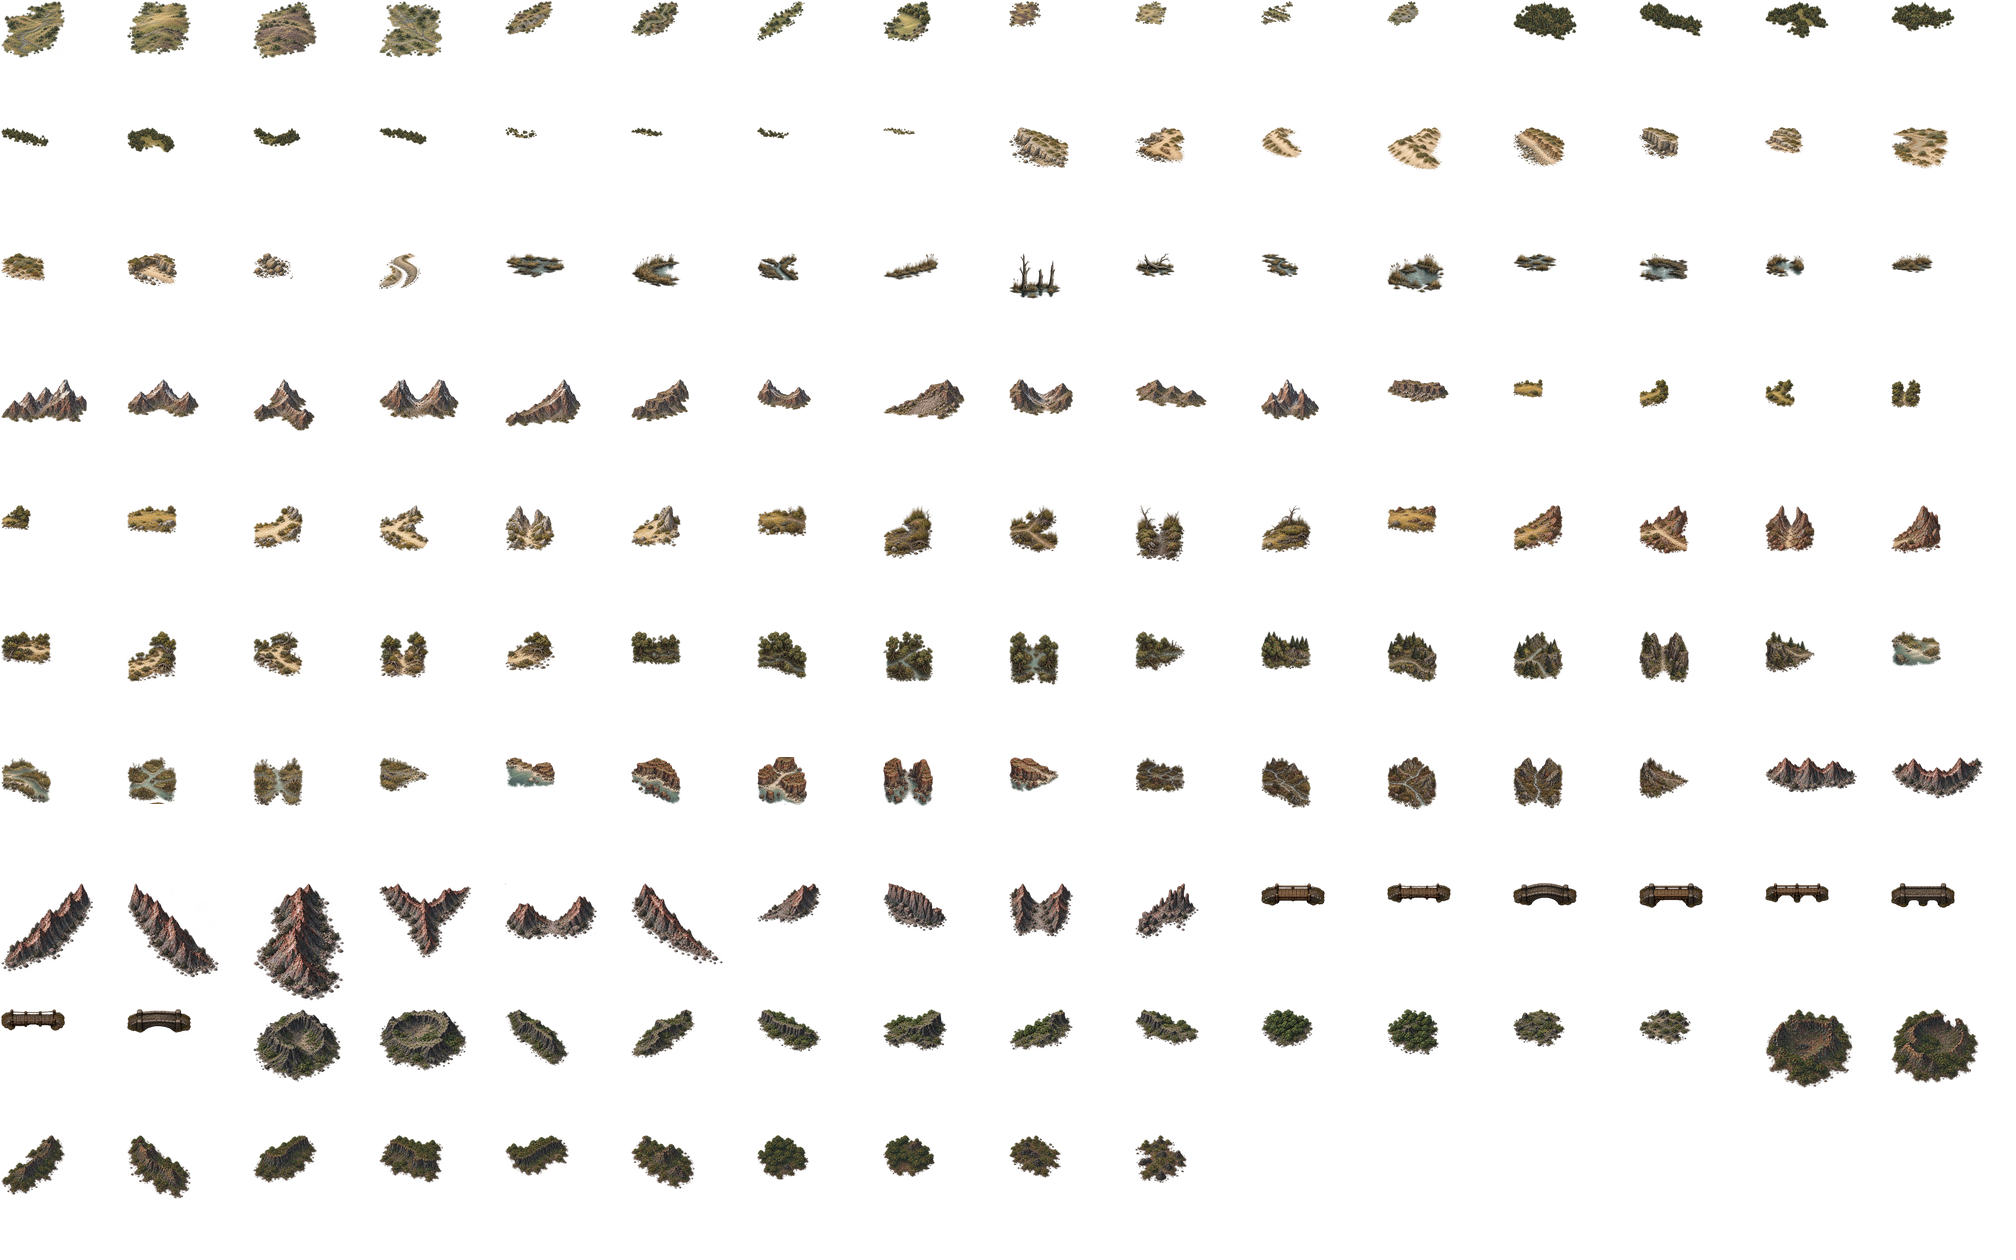
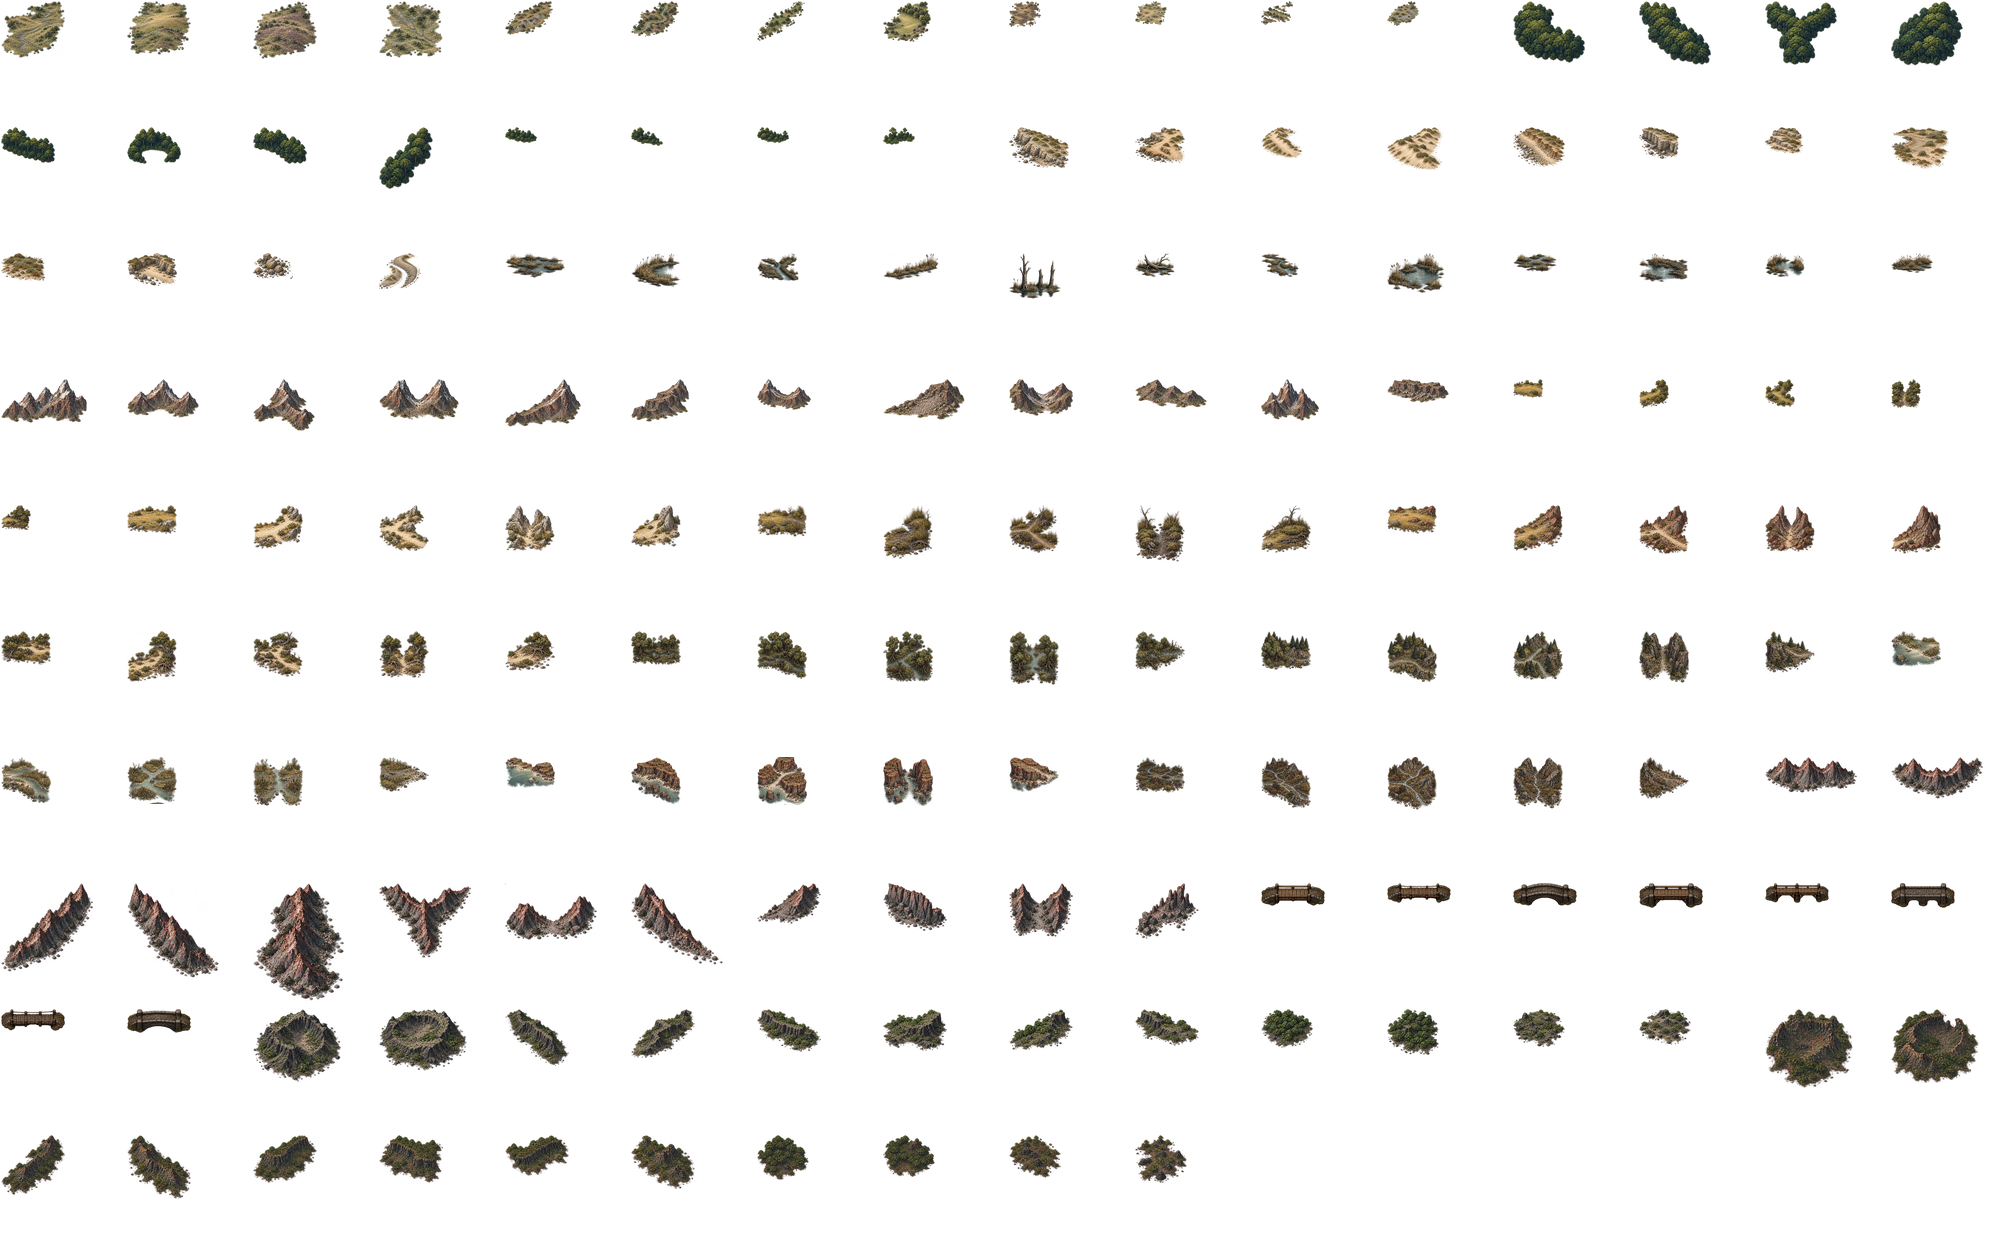
Generate and integrate raised ancient forest canopy

diff --git a/images/dark-fantasy/map-generation-prototype/terrain-composition.js b/images/dark-fantasy/map-generation-prototype/terrain-composition.js
@@ -87,7 +87,7 @@ export function composeTerrainLandscape({ map, art, pixel, world, legal, detail,
       const join = previous ? illustrationOverlap(prop, previous, art) : 0;
       if (previous && (join < (context.startsWith('ridge') ? .12 : .06) || join > .46)) continue;
       const score = rand(salt + attempt * 31 + 4) * .3
-        + (previous ? 1 - Math.abs(join - .22) * 3 : Math.min(.3, overlap)) - Math.max(0, overlap - .38);
+        + (previous ? 1 - Math.abs(join - .22) * 3 : Math.min(canopyCore ? .5 : .3, overlap)) - Math.max(0, overlap - (canopyCore ? .6 : .38));
       options.push({ prop, score, join });
     }
     options.sort((a, b) => b.score - a.score);
@@ -307,10 +307,10 @@ export function composeTerrainLandscape({ map, art, pixel, world, legal, detail,
       candidates.push({ x, y, density, salt });
     }
     candidates.sort((a, b) => b.density - a.density);
-    let placed = 0, limit = Math.ceil(area / ((region.biome === 'islands' ? (islandStyle === 'caldera' ? 600 : 1000) : region.biome === 'swamp' ? 1100 : dense ? 110 : region.biome === 'plains' ? 320 : 560) * detail * detail));
+    let placed = 0, limit = Math.ceil(area / ((region.biome === 'islands' ? (islandStyle === 'caldera' ? 600 : 1000) : region.biome === 'swamp' ? 1100 : dense ? 80 : region.biome === 'plains' ? 320 : 560) * detail * detail));
     for (const candidate of candidates) {
       if (placed >= limit || props.length >= 600) break;
-      const canopyCore=dense && candidate.density>=.52;
+      const canopyCore=dense && candidate.density>=.46;
       const prop = choose({ ...candidate, family, canopyCore,
         indices: dense ? (canopyCore ? [0,1,3] : [4,5,8,9,10,11]) : region.biome === 'islands' ? [8,9,10,11] : region.biome === 'mountains' ? [7, 8, 9, 11] : INTERIORS[region.biome], allowedBiomes: [region.biome], context: 'interior' });
       if (!prop) continue;

diff --git a/images/dark-fantasy/map-generation-prototype/composable-art.js b/images/dark-fantasy/map-generation-prototype/composable-art.js
@@ -14,7 +14,8 @@ export function gradeTerrainColour(r, g, b, family) {
     return channels.reduce((rgb,v,i) => rgb | Math.max(0,Math.min(255,Math.round(v))) << (16-i*8),0);
   }
   if (family === 'forest') {
-    return [r,g,b].reduce((rgb,v,i) => rgb | Math.round(104+(v-104)*.83) << (16-i*8),0);
+    // Deep canopy shadows carry height; lifting them made woodland look flat.
+    return [r,g,b].reduce((rgb,v,i) => rgb | Math.round(72+(v-72)*.95) << (16-i*8),0);
   }
   if (family === 'island-basalt') {
     // Compress values around weathered mid-grey without flattening leaf/stone hue.
@@ -54,7 +55,7 @@ export async function loadComposableArt(banks) {
       let row = ''; const alpha = [];
       for (let x = 0; x < canvas.width; x++) {
         const i = (y * canvas.width + x) * 4;
-        if (data[i + 3] < 65 || (data[i + 2] > data[i] + 8 && data[i + 1] > data[i] + 3)) { row += '.'; alpha.push(0); continue; }
+        if (data[i + 3] < 65 || (frame.family !== 'forest' && data[i + 2] > data[i] + 8 && data[i + 1] > data[i] + 3)) { row += '.'; alpha.push(0); continue; }
         const r = data[i] >> 3, g = data[i + 1] >> 3, b = data[i + 2] >> 3;
         const code = String.fromCharCode(256 + (r << 10) + (g << 5) + b);
         const rgb = gradeTerrainColour(r * 8 + 4, g * 8 + 4, b * 8 + 4, frame.family);

diff --git a/scripts/import-map-terrain.py b/scripts/import-map-terrain.py
@@ -185,10 +185,8 @@ def import_relief():
     for name, columns, rows in sheets:
         source_path = MASTER / f'composable-{name}-v2.png' if name in ['mountains', 'swamp', 'plains', 'forest'] else MASTER / f'composable-{name}-v1.png' if name in ['ridge-border', 'bridge', 'island-basalt', 'island-caldera'] else BASE / f'composable-{name}-v1.png'
         if name in ['plains', 'forest']: source_path = MASTER / f'composable-{name}-v3.png'
+        if name == 'forest': source_path = MASTER / 'composable-forest-v4.png'
         source = Image.open(source_path).convert('RGBA')
-        # The v3 forest master has an empty header above its three sprite rows.
-        # Trim that sheet margin during packing; preserve every painted pixel.
-        if name == 'forest': source = source.crop((0, round(source.height * .24), source.width, source.height))
         payload = json.dumps([source.width, source.height, columns, rows]).encode() + b'\n' + source.tobytes()
         probe = subprocess.run(['node', str(ROOT / 'scripts/map-terrain-frame-probe.mjs')], input=payload, capture_output=True, check=True)
         cells = json.loads(probe.stdout)
@@ -209,6 +207,7 @@ def import_relief():
             if name == 'ridge-border': width = 92 if n < 8 else 64
             if name == 'bridge': width = 64
             if name in ['plains', 'forest']: width = 64 if n < 4 else 48 if n < 8 else 32
+            if name == 'forest': width = 72 if n < 4 else 54 if n < 8 else 32
             if contact and pair == 0: width = 30
             if name.startswith('island-'): width = 88 if n < 2 else 64 if n < 8 else 52
             height = min(118, max(1, round(width * cropped.height / cropped.width)))

diff --git a/scripts/check-map-terrain.py b/scripts/check-map-terrain.py
@@ -53,7 +53,8 @@ assert all(r['rect'][2] <= 118 and r['rect'][3] <= 118 for r in relief['frames']
 for frame in relief['frames']:
     if frame['family'] in ['plains','forest']:
         n=int(frame['kind'].split('-')[-1])
-        assert frame['rect'][2] == (64 if n<4 else 48 if n<8 else 32), 'Plains/forest must use distant-scale imported pieces'
+        sizes = [72,54,32] if frame['family']=='forest' else [64,48,32]
+        assert frame['rect'][2] == sizes[0 if n<4 else 1 if n<8 else 2], 'Plains/forest must use distant-scale imported pieces'
 settlements = json.loads((folder / 'settlement-buildings-v1.json').read_text())['frames']
 assert len(settlements) == 30 and all(not f['cutRuns'] for f in settlements)
 for biome in biomes:

diff --git a/images/dark-fantasy/map-generation-prototype/README.md b/images/dark-fantasy/map-generation-prototype/README.md
@@ -25,6 +25,17 @@ untouched. This is an integration pass for the prototype, not new gameplay.
 
 ### Plains and forest terrain pass
 
+Forest v4 replaces all twelve forest pieces with raised ancient canopy masses,
+layered crowns and shaded near edges. The fine tree scale remains regional;
+height comes from the painted canopy profile, not enlarged individual trees.
+Core pieces import at 72px, connectors at 54px and low fringes at 32px.
+Forest grading preserves deep blue-green shadows and uses source alpha rather
+than the legacy cyan key. Dense patches accept more overlapping closed canopy;
+clearings retain the lower fringe pieces and protected settlement approaches.
+The same kit supplies coasts, boundary verges and settlement surroundings.
+Source: `assets/masters/composable-forest-v4.png`; exact built-in imagegen prompt:
+[forest-prompts-v4.json](assets/masters/forest-prompts-v4.json).
+
 Plains sprites receive material-aware warm ochre grading, with olive vegetation
 kept distinct from soil and stone; no zone overlay or ground-frequency change.
 All seven biome pairings involving plains or forest use current biome-specific
@@ -44,9 +55,10 @@ deadwood and fern clearings. Coasts select low banks and fringes. Neither biome
 scatters the entire asset set indiscriminately. The generated source colours get
 moderate value compression; plains stone highlights are softened further.
 
-The v3 generated masters depict distant terrain directly: broad shallow plains
-folds with fine scrub and drainage, and continuous forests of many tiny crowns.
-Runtime widths are 64px (major masses), 48px (banks/edges) and 32px (small cover).
+The generated masters depict distant terrain directly: v3 broad shallow plains
+folds with fine scrub and drainage, and v4 forests with layered raised crowns.
+Plains widths are 64px (major masses), 48px (banks/edges) and 32px (small cover);
+forest widths are 72/54/32px.
 The new source detail carries the scale, rather than shrinking close-up paintings.
 Ground and clearing/foundation texture sampling is restored to its original
 frequency; the doubled texture frequency caused visible repetition. Plains–forest
@@ -59,9 +71,9 @@ clearing fringe available for scenery, as in the island treatment. Zoom does not
 change placement. Simulation state, RNG, schemas and replay remain untouched.
 
 Built-in imagegen sources: `assets/masters/composable-plains-v3.png` and
-`assets/masters/composable-forest-v3.png`. Exact prompts and import notes are in
+`assets/masters/composable-forest-v4.png`. The plains prompt and previous import notes are in
 [plains-forest-prompts-v3.json](assets/masters/plains-forest-prompts-v3.json).
-The runtime art remains about 2.22 MiB; all replacement source edges pass extraction.
+The runtime art remains about 2.25 MiB; all replacement source edges pass extraction.
 Review seeds 1862 and 1873 at Fit and close zoom, labels off. Run composition,
 settlement-site and map-art checks plus browser LOD persistence.
 
